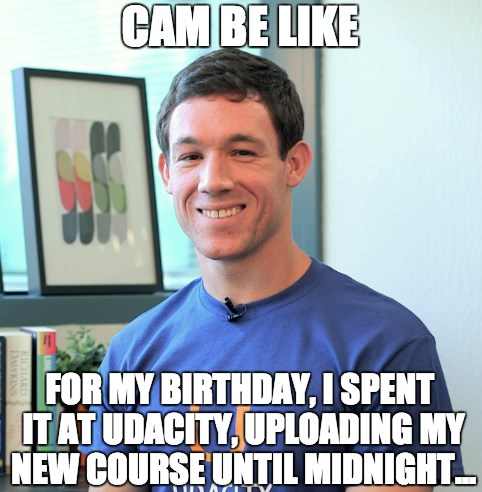
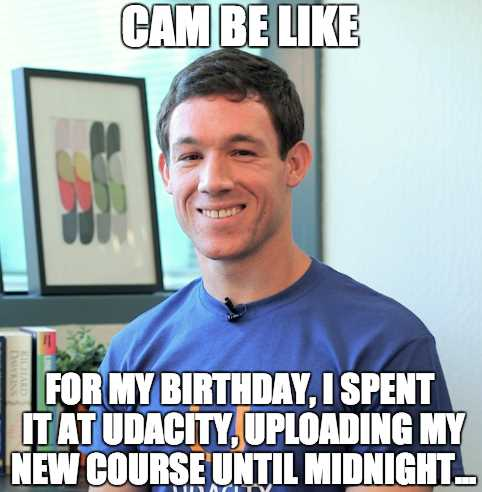
压缩图片

diff --git a/index.html b/index.html
@@ -10,58 +10,7 @@
     <!-- 嗯，web 字体对速度的影响有多大呢？测量一下吧，测试结果99.47ms -->
     <link href="//fonts.googleapis.com/css?family=Open+Sans:400,700" rel="stylesheet">
 
-    <!--<link href="css/style.css" rel="stylesheet">-->
-    <style>
-			html {
-			  font-size: 100%;
-			  overflow-y: scroll;
-			  -webkit-tap-highlight-color: rgba(0,0,0,0);
-			  -ms-text-size-adjust: 100%;
-			  -webkit-text-size-adjust: none;
-			}
-			body { margin: 0; font-size: 14px; line-height: 1.61; font-weight: 400; }
-			body, button, input, select, textarea { font-family: 'Open Sans', sans-serif; color: #333; }
-			
-			a { color: #12C; }
-			a:visited { color: #61C; }
-			a:focus { outline: thin dotted; }
-			a:hover, a:active { color: #c00; outline: 0; }
-			
-			b, strong { font-weight: bold; }
-			pre, code { font-family: monospace, monospace; font-size: 1em; }
-			ul, ol { margin: 1em 0; padding: 0 0 0 20px; }
-			img { border: 0; max-width: 100%; }
-			
-			body { background: #fff; }
-			header, footer, .container { max-width: 45em; margin: 0 auto; }
-			
-			header { padding: 0 0.5em; color: #C90B0B; }
-			header img { border-radius: 40px; float: left; }
-			header p { font-size:1.5em; font-weight: bold; padding-left: 4em;}
-			header p span { font-size: 0.8em; font-weight: normal;}
-			
-			.hero { padding: 2em; background-color: #f8f8f8; font-size:1.2em;
-			  border-bottom: 1px solid #ccc;
-			  border-top: 1px solid #ccc;
-			}
-			
-			.content { padding: 1em 1em; }
-			.content li { list-style-type: none; font-size: 1.1em;}
-			li img { float:left; padding-right: 1em; }
-			li p { font-size: 0.9em; font-style: italic; }
-			
-			footer {
-			  padding: 0 0.5em;
-			  border-top: 1px solid #ccc;
-			}
-			footer span { float: right; font-style: italic; }
-			
-			/* Smartphones (portrait) */
-			@media only screen and (max-width: 480px) {
-			  body { font-size: 12px;}
-			  header p { padding-left: 4.5em;}
-			}
-    </style>
+    <link href="css/style.css" rel="stylesheet">
     <link href="css/print.css" rel="stylesheet" media="print">
 
     <script>
